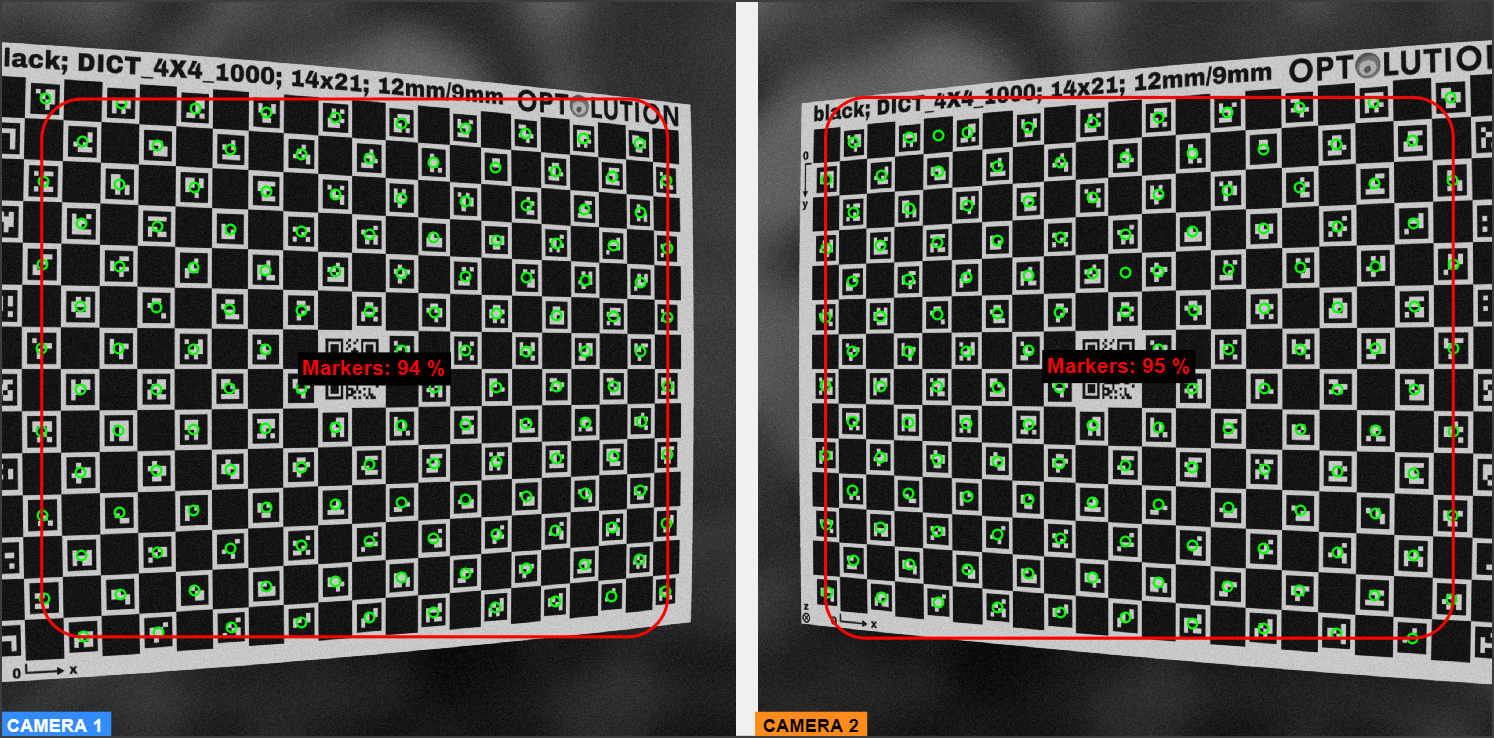
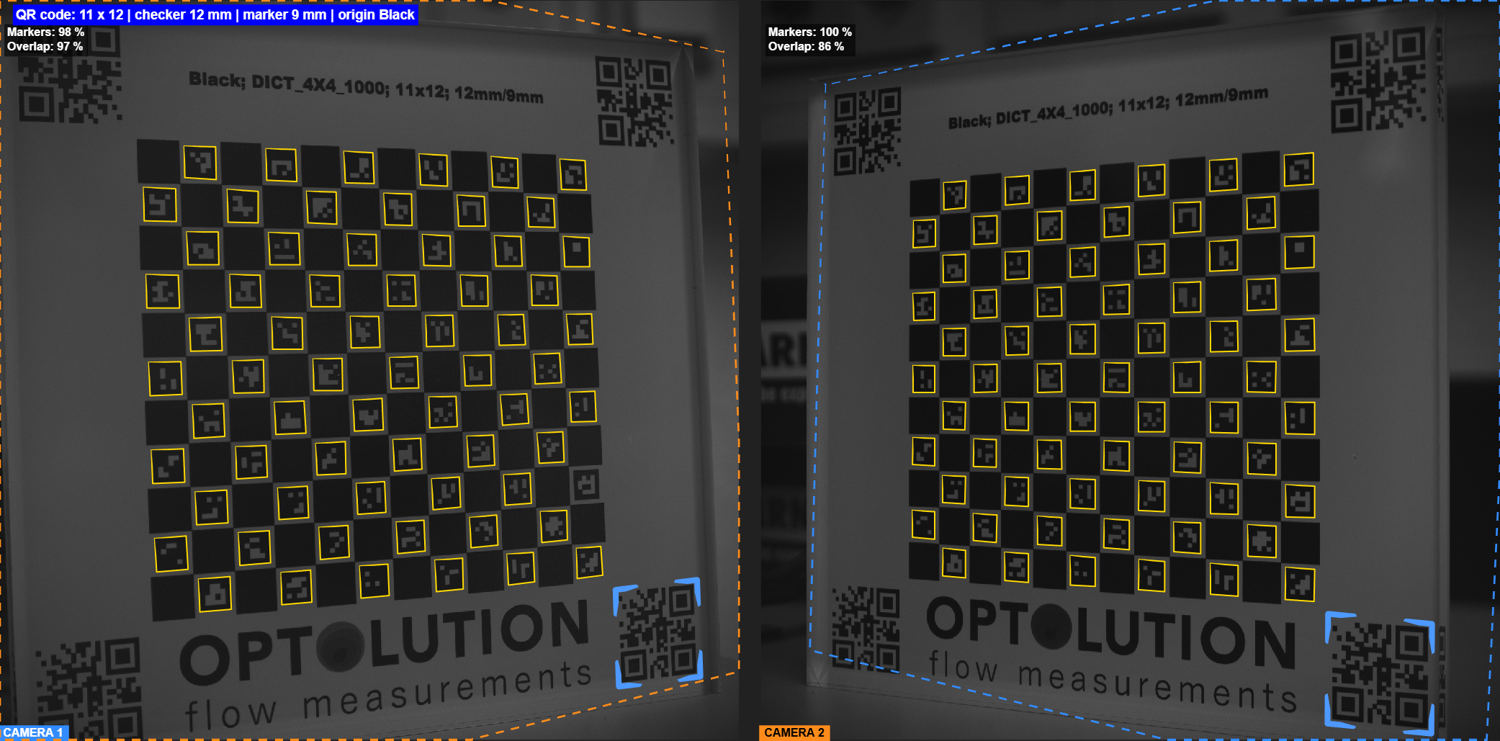
Manual: Scheimpflug angle, new capture overlay sections
Published from stereo (8f13b77, 738a1e2).

- camera-calibration: the tilted-sensor control is now 'Scheimpflug, tilt (deg)'
  and takes the angle directly; 0 means PIVlab estimates it from the target
  images, which is usually inaccurate. Search terms updated.
- capture: the Sharpness and Calibration overlays are now sections of their own
  (#focusing, #calibration-overlay) with their own screenshots, and the stereo
  part describes aligning the two cameras with the dashed overlap frame.
- camera-calibration and stereo-setup now link to those two new anchors instead
  of the whole camera section.
- Two new search records, 114 in total.

diff --git a/docs/manual/pages/capture.html b/docs/manual/pages/capture.html
@@ -109,15 +109,15 @@
       <tr><td>Grid</td><td>Overlays a grid, for aligning the camera. Works in the live image and in
       the PIV preview.</td></tr>
       <tr><td>Calibration</td><td>Live detection of a
-      <a href="camera-calibration.html#markerboard">ChArUco board</a> — see below. Works in the
-      live image only.</td></tr>
+      <a href="camera-calibration.html#markerboard">ChArUco board</a> — see
+      <a href="#calibration-overlay">Calibration overlay</a>. Works in the live image only.</td></tr>
     </table>
     <figure class="inline-panel">
       <img src="../assets/img/capture/part-camera.png" alt="Camera settings: Binning, ROI, Lens and Setup buttons, and the live overlay switches">
     </figure>
     </div>
 
-    <h4 id="focusing">Focusing with the Sharpness overlay</h4>
+    <h3 id="focusing">Sharpness overlay</h3>
     <p>Focus until all three values are as small as you can get them. With a Scheimpflug adapter,
     focus until the <strong>centre</strong> value is smallest, then adjust the adapter until
     <strong>left and right are equal</strong>.</p>
@@ -125,19 +125,42 @@
     value seen there. Turn back when a bar drops below its mark. All three bars at their marks
     means the image is in focus everywhere. If the side bars sit level but below a full centre bar,
     the adapter cannot fix it — close the aperture instead.</p>
+    <figure>
+      <img src="../assets/img/capture/overlay-sharpness.png" alt="Live image of two cameras with the Sharpness overlay: three yellow bars per camera with the blur in pixels below them and a white mark for the best value; top right the sharpness and the mean brightness">
+      <figcaption>The <span class="ui">Sharpness</span> overlay with two cameras: blur in pixels
+      for the left, centre and right third of each image, each bar with the white mark of its best
+      value.</figcaption>
+    </figure>
 
-    <p>The <span class="ui">Calibration</span> overlay does three things at once, which makes it
-    the quickest way to check a board and a camera position:</p>
+    <h3 id="calibration-overlay">Calibration overlay</h3>
+    <p>The <span class="ui">Calibration</span> overlay is the quickest way to check a board and a
+    camera position. Ticking it switches <span class="ui">Sharpness</span> off, and the other way
+    round.</p>
     <ul>
-      <li>It marks the detected markers and reports what percentage of them it found.</li>
-      <li>It reads the <strong>QR code</strong> printed on the board and fills the board definition
-      from it: pattern dimensions, origin colour, marker family, and the checker and marker size in
-      mm — the scale of the board. You do not have to type those numbers in.</li>
+      <li>A <strong>yellow outline</strong> marks each detected marker. The block at the top left
+      shows the percentage of the board's markers that were found.</li>
+      <li>It reads the <strong>QR code</strong> printed on the board, marks it with blue corners and
+      fills the board definition from it: pattern dimensions, origin colour, marker family, and the
+      checker and marker size in mm — the scale of the board. You do not have to type those numbers
+      in. The line at the top left is blue with the values read from the code, and orange while
+      PIVlab uses the parameters entered by hand.</li>
+      <li>It takes the board images for the <a href="camera-calibration.html">camera
+      calibration</a> by itself: move the board to a <strong>new position</strong> and hold it still.
+      At <strong>Steady!</strong> PIVlab saves a snapshot into the project folder;
+      <strong>Shaking…</strong> means the board still moves, <strong>Existing position</strong>
+      means there is a snapshot of this position already.</li>
       <li>Once a <a href="camera-calibration.html">camera calibration</a> has been performed, it
       also reports the <strong>camera position and orientation relative to the board</strong>: yaw,
       pitch and roll, and the camera X, Y and Z in mm, where X and Y run along the board and Z is
       the distance in front of it. Without a calibration it tells you to perform one first.</li>
+      <li>A transparent board seen from behind is detected as well; the block then shows
+      <strong>Board seen from behind</strong>.</li>
     </ul>
+    <figure>
+      <img src="../assets/img/capture/overlay-calibration.png" alt="Live image of a ChArUco board with the Calibration overlay: a yellow outline around every detected marker, blue corners around the QR code, at the top left the board parameters read from the QR code and the marker percentage">
+      <figcaption>The <span class="ui">Calibration</span> overlay: all markers found, the QR code
+      read and the board parameters taken from it.</figcaption>
+    </figure>
 
     <h3 id="live">Live image</h3>
     <p>Here the camera runs freely: it is <strong>not</strong> triggered by the synchronizer, so
@@ -295,7 +318,11 @@
       with the lower serial number; <span class="ui">Setup</span> shows both serial numbers, and
       <span class="ui">Swap cameras</span> exchanges camera 1 and 2.</li>
       <li>With <span class="ui">Calibration</span> ticked, the markers of a ChArUco board are shown in
-      both images. Place the board in the light sheet so that both cameras see it well; align the
+      both images. Each image also shows the frame of the other camera as a dashed line in that
+      camera's colour, and <strong>Overlap</strong> gives the part of the image that the other camera
+      sees too: align the cameras until the overlap is as large as you need it. The automatic
+      snapshots and the camera position need one camera shown (<span class="ui">CAM</span> button).
+      Place the board in the light sheet so that both cameras see it well; align the
       sheet on it, then switch the laser off and light the board normally
       (<a href="stereo-setup.html#board-images">why</a>). <span class="ui">Snapshot</span> then saves
       one image per camera: the board images for the
@@ -305,11 +332,10 @@
       them in stereo mode. The next recording with the same setup keeps the stereo calibration.</li>
     </ol>
     <figure>
-      <img src="../assets/img/capture/stereo-live.png" alt="Live image of two cameras side by side, each showing the ChArUco board from a different angle, with the detected markers circled in green and the marker percentage in red">
-      <figcaption>Live image of both cameras with <span class="ui">Calibration</span> ticked
-      (artificial images from the <a href="synthetic-images.html">particle image
-      generator</a>): the board is placed so that both cameras see most of it, and almost all
-      markers are detected in both images.</figcaption>
+      <img src="../assets/img/capture/stereo-live.png" alt="Live image of two cameras side by side, each showing the ChArUco board from a different angle, the detected markers outlined in yellow, the frame of the other camera as a dashed line, and the marker and overlap percentages at the top left">
+      <figcaption>Live image of both cameras with <span class="ui">Calibration</span> ticked: almost
+      all markers are detected in both images, and the dashed lines show where the other camera's
+      image lies.</figcaption>
     </figure>
 
     <h2 id="webcam">Trying it with just a webcam</h2>

diff --git a/docs/manual/assets/js/search-index.js b/docs/manual/assets/js/search-index.js
@@ -270,7 +270,7 @@ window.MANUAL_SEARCH = [
     title: "Camera calibration (lens undistortion)",
     href: "pages/camera-calibration.html", hash: "calibration",
     section: "Image settings",
-    text: "camera calibration lens undistortion scheimpflug estimate parameters reprojection error black borders"
+    text: "camera calibration lens undistortion scheimpflug tilt angle tilted sensor estimate parameters reprojection error black borders"
   },
   {
     title: "Image rectification",
@@ -561,6 +561,18 @@ window.MANUAL_SEARCH = [
     text: "camera settings binning roi lens autofocus setup bit depth gain sharpness particle image diameter edge width blur scheimpflug overlay grid calibration charuco live image exposure start snapshot save focus"
   },
   {
+    title: "Capturing images: Sharpness overlay (focusing)",
+    href: "pages/capture.html", hash: "focusing",
+    section: "Image acquisition",
+    text: "sharpness overlay focus focusing blur bars white mark best value left centre right third scheimpflug adapter aperture"
+  },
+  {
+    title: "Capturing images: Calibration overlay (live ChArUco detection)",
+    href: "pages/capture.html", hash: "calibration-overlay",
+    section: "Image acquisition",
+    text: "calibration overlay live charuco detection markers yellow outline percentage qr code board parameters automatic snapshot steady shaking new existing position camera position orientation yaw pitch roll seen from behind transparent board overlap"
+  },
+  {
     title: "Capturing images: recording the image pairs",
     href: "pages/capture.html", hash: "capture",
     section: "Image acquisition",
@@ -588,7 +600,7 @@ window.MANUAL_SEARCH = [
     title: "Capturing images: stereo acquisition with two cameras",
     href: "pages/capture.html", hash: "stereo",
     section: "Image acquisition",
-    text: "stereo acquisition two cameras record stereo-piv capture y-cable camera 1 camera 2 swap cameras serial number side by side live image charuco board snapshot cam1 cam2"
+    text: "stereo acquisition two cameras record stereo-piv capture y-cable camera 1 camera 2 swap cameras serial number side by side live image charuco board snapshot cam1 cam2 overlap align cameras dashed frame"
   },
   {
     title: "Trying capture with just a webcam",

diff --git a/docs/manual/pages/camera-calibration.html b/docs/manual/pages/camera-calibration.html
@@ -57,7 +57,7 @@
     </details>
     <p>A generated board carries a <strong>QR code</strong> in place of the central 2 × 2 checkers
     that holds all of these parameters. It is also read when the board is seen from behind.
-    With the <a href="capture.html#camera"><span class="ui">Calibration</span> overlay</a> of the
+    With the <a href="capture.html#calibration-overlay"><span class="ui">Calibration</span> overlay</a> of the
     image acquisition, PIVlab reads that code from the live image and fills the fields above by
     itself, so the board's dimensions and scale do not have to be entered by hand.</p>
     <p>The left and bottom margins show the <strong>board coordinate system</strong>, as PIVlab
@@ -130,7 +130,9 @@
       <li>Click <span class="ui">Load target images</span> and select several photos of your
       marker board from different angles/positions.</li>
       <li>If your camera uses a Scheimpflug adapter (tilted sensor), enable
-      <span class="ui">Scheimpflug adapter (tilted sensor model)</span> first.</li>
+      <span class="ui">Scheimpflug, tilt (deg)</span> first and enter the tilt angle of the
+      adapter (tilt about the vertical image axis, without sign). With 0, PIVlab estimates the
+      tilt from the target images, which is usually inaccurate.</li>
       <li>Click <span class="ui">Estimate cam parameters</span> to detect the markers and
       compute the lens model.</li>
       <li><span class="ui">Save parameters</span> to reuse this calibration later, or

diff --git a/docs/manual/pages/stereo-setup.html b/docs/manual/pages/stereo-setup.html
@@ -65,7 +65,7 @@
     <a href="camera-calibration.html#markerboard"><span class="ui">Generate Charuco board</span></a>) at
     the measurement position and focus both cameras on it; with Scheimpflug adapters, adjust focus and
     tilt until the <strong>whole board</strong> is sharp. The <span class="ui">Sharpness</span> overlay
-    of the <a href="capture.html#camera">live image</a> rates the focus in the left, centre and right
+    of the <a href="capture.html#focusing">live image</a> rates the focus in the left, centre and right
     third of the image.</p>
     <figure>
       <img src="../assets/img/stereo-piv/workflow/stereo-piv-step-2-focus.svg" width="560" height="340" loading="lazy" alt="The calibration board at the measurement position, seen by camera 1 and camera 2; both camera images show the whole board sharp.">

diff --git a/docs/manual/CONTENT_PLAN.md b/docs/manual/CONTENT_PLAN.md
@@ -289,6 +289,20 @@ Findings worth never re-deriving:
 
 Newest first. **Add an entry whenever you change the manual**, and bump the watermark.
 
+### 2026-11-20 — live overlays on capture.html
+The live detector overlays were redesigned (yellow marker outlines, status block top left, QR corner brackets,
+dashed frame of the other camera + "Overlap" in the dual view; stereo dev log section 57). `capture.html`:
+the h4 "Focusing with the Sharpness overlay" (not in "On this page", which lists h2/h3 only) became two h3s,
+**Sharpness overlay** (`#focusing`, anchor kept) and **Calibration overlay** (`#calibration-overlay`, new:
+markers, QR code + status colour, automatic snapshots New position / Steady! / Shaking… / Existing position,
+pose, board seen from behind, Sharpness/Calibration exclusive). `#stereo` step 4: dashed frame + Overlap,
+automatic snapshots and pose need one camera shown (CAM button). New images from the **real rig** (two OPTOcam
+20/9, user's board 11x12/12/9 mm, PIVlab driven by a script, screenshots of the axes after the live view
+stopped): `overlay-sharpness.png` (stereo, 1500 px), `overlay-calibration.png` (CAM 1, 900 px),
+`stereo-live.png` replaced (was simulated). Links fixed: camera-calibration.html → `#calibration-overlay`,
+stereo-setup.html Sharpness → `#focusing`. Search index: two records by hand, stereo record + overlap keywords.
+No `.v3` box (display change only, no behaviour change). Watermark not bumped (only this page part checked).
+
 ### 2026-11-18 — de-duplication, cut non-actionable text, collapsible extras
 The manual had grown 13,440 → 22,702 words since July while the page count only went 27 → 30: ~20
 commits touched code *and* manual in one go (`561b033` 6 pages, `a8b33b1` 19, `26ebf86` 5), each
@@ -725,12 +739,10 @@ dedicated pages.
 
 - **`capture.html` has no screenshots of its sub-panels.** The page has the whole-panel shot and
   the stereo live image; a capture of the Timing graph would help `#dt` most.
-- **`capture/stereo-live.png` is a simulated-camera screenshot** — swap in a real-rig capture when
-  one exists (see the 2026-10-24 entry). Recaptured 2026-11-12 (user: the old one detected too few
-  markers, 19 %, and had the cameras the wrong way round): simulated cameras showing the real pair
-  `D:\PIV Data\stereotest_optocam2\moving_board\CAM*_PIVlab_0026_B.tif`; camera 1 = left camera
-  (`CAM2_*` file), camera 2 = right camera (`CAM1_*`); calibration panel set to the 23 x 24 board;
-  live detection 99 % / 67 %. Best pair of that recording (camera 1 files never exceed ~73 %).
+- **Live-image screenshots come from the real rig** (since 2026-11-20, see that entry): when the
+  overlays change again, recapture `capture/stereo-live.png`, `overlay-sharpness.png` and
+  `overlay-calibration.png` the same way (desktop MATLAB, real cameras, axes captured after the live
+  view stopped).
 - **Claude cannot watch video.** Verified 2026-11-05: titles and descriptions are fetchable (the
   oEmbed endpoint), captions are **not** — the caption URL is session-signed and 404s. Material
   from the user's YouTube tutorials has to arrive as a pasted transcript, and is then
